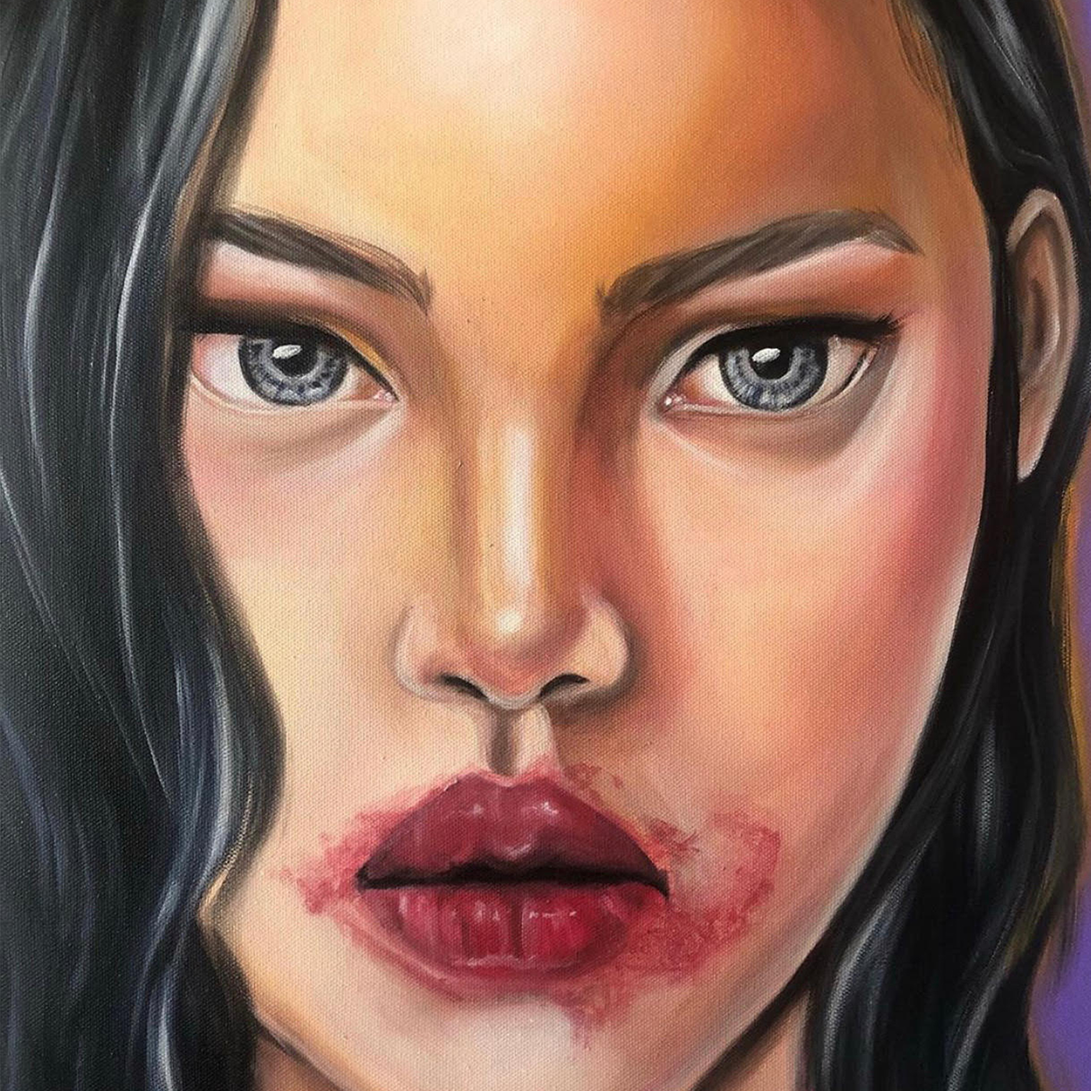
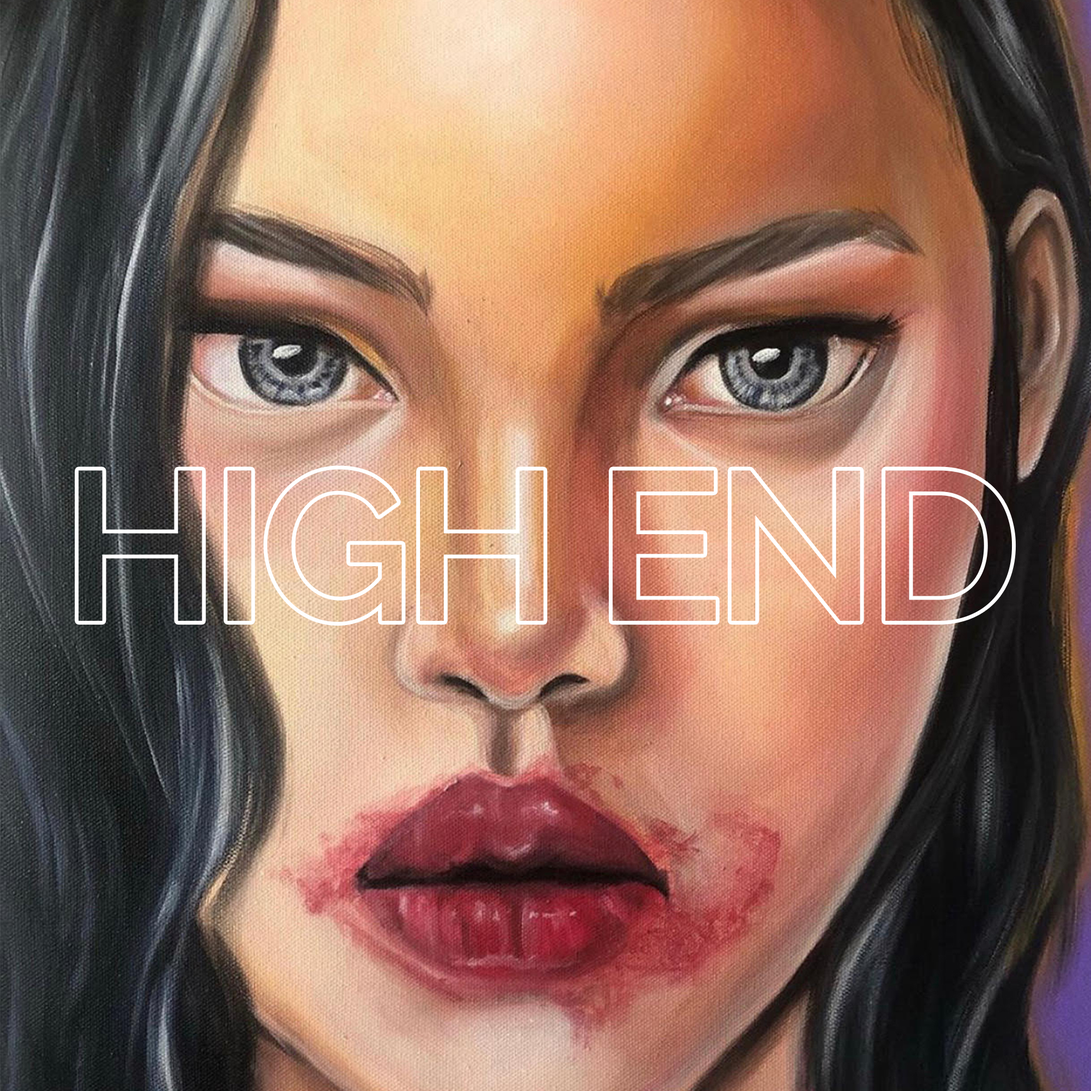
text + photo changes

Changed region(s): [[0.062, 0.403, 0.527, 0.589], [0.558, 0.403, 0.93, 0.589]]

diff --git a/index.html b/index.html
@@ -61,7 +61,11 @@
                     <div class="container">
     	                <div class="other-content">
                             <h2>About My Work</h2>
-                            <p>Lorem ipsum dolor sit amet, timeam inciderint referrentur in pro, dicta voluptatum cu quo, exerci regione mei ne. Duo essent commune quaerendum ad, iriure accumsan vim cu. Ea eirmod volumus ocurreret pro. </p>
+                            <p>Montreal artist Maïté Côté creates dreamlike portraits of women that contemplate the mystical
+                                    elements of femininity. Her works use the strong eye contact of her subjects to establish a
+                                    connection with the viewer into the emotional realm of the piece. Embracing the excitement of rapid
+                                    creation in her first season with Art Battle, Maïté painted amongst the cities best live artists to claim
+                                    her place in the National Championship.</p>
                             <a href="#">VIEW ALL WORK</a>
                         </div>
                         <div class="other-content">
@@ -70,19 +74,19 @@
                             </div>
                         </div>
 
-    	                <div class="slide show" style="background-image: url('data/portfoliowork/naked-fit.png');"></div>
+    	                <div class="slide show" style="background-image: url('data/portfoliowork/devil-fit.jpg');"></div>
     	                <div class="slide" style="background-image: url('data/portfoliowork/gun-fit.png');"></div>
-                        <div class="slide" style="background-image: url('data/portfoliowork/paintedw-fit.png');"></div>
-                        <div class="slide" style="background-image: url('data/portfoliowork/girlparrot-fit.png');"></div>
+                        <div class="slide" style="background-image: url('data/portfoliowork/woman-fit.jpg');"></div>
+                        <div class="slide" style="background-image: url('data/portfoliowork/skull-fit.jpg');"></div>
                     </div>
                 </div>
 
                 <div id ="second">
-                    <h2>Shop Collections</h2>
+                    <h2 style="font-family: 'Raleway', sans-serif;">Shop Collections</h2>
                     <div id="collections">
-                        <img src="data/1.jpg" style="float: left;">
-                        <img src="data/2.jpg">
-                        <img src="data/3.jpg" style="float: right;">
+                        <a href="pages/high-end.html"><img src="data/1.jpg" style="float: left;"></a>
+                        <a href="pages/cosima.html"><img src="data/gun.jpg"></a>
+                        <a href="pages/eco-friendly.html"><img src="data/2.jpg" style="float: right;"></a>
                     </div>
                 </div>
 
@@ -95,11 +99,11 @@
 
                 <div id = "fourth">
                     <div id ="second">
-                        <h2>Customer Favorites</h2>
+                        <h2 style="font-family: 'Raleway', sans-serif;">Customer Favorites</h2>
                     <div id="collections">
-                        <img src="data/cf1.jpg" style="float: left;">
-                        <img src="data/cf2.jpg">
-                        <img src="data/cf3.jpg" style="float: right;">
+                        <img src="data/woman2.jpg" style="float: left;">
+                        <img src="data/lips.jpg">
+                        <img src="data/black.jpg" style="float: right;">
                     </div>
                     </div>
 

diff --git a/pages/events.html b/pages/events.html
@@ -56,14 +56,13 @@
 			<main>
                 <div id="container">
 
+                    <img src="../data/artbattle2018.jpg" style="width: 100%">
+                    <h2><a href="https://artbattle.com/abnc-2018-competitors/" target="_blank">ART BATTLE CANDADIAN NATIONAL CHAMPIONSHIP 2018</a></h2>
+                    <p>In each event, 12 artists compete in three rounds of live painting. The winners are decided by audience vote, and Champions will advance to City, Regional, National, and World Championships. Embracing the excitement of rapid creation in her first season with Art Battle, Maïté painted amongst the cities best live artists to claim her place in the National Championship.</p>
                     <img src="../data/raw.jpg" style="width: 100%">
                     <h2><a href="https://rawartists.com/montreal/holidayrawk2019" target="_blank">RAW Artist Show</a></h2>
-                    <h3>December 10th & 11th, 2019 @ the Rialto Teather.</h3>
                     <p>RAW spotlights independent talent in visual art, film, fashion & accessories design, music, performance art, beauty, crafts, tech, and photography. RAW is a fun and alternative way for creatives to showcase both to their local community and the world at large. We are not your average art show. We are loud, colorful, creative, and all about our artists. We are RAW.</p>
-                    <img src="../data/artbattle2018.jpg" style="width: 100%">
-                    <h2><a href="https://artbattle.com/abnc-2018-competitors/" target="_blank">ART BATTLE 2018</a></h2>
-                    <h3>July 26th, 2018 @ The Great Hall.</h3>
-                    <p>In each event, 12 artists compete in three rounds of live painting. The winners are decided by audience vote, and Champions will advance to City, Regional, National, and World Championships. Embracing the excitement of rapid creation in her first season with Art Battle, Maïté painted amongst the cities best live artists to claim her place in the National Championship.</p>
+                    
     
                 </div>
                 <div id="footer" style="margin-top: 6vw;">

diff --git a/styles/home.css b/styles/home.css
@@ -106,10 +106,10 @@ ul img{
     top: 12vw;
     left: 8vw;
     width: 21vw;
-    height: 18vw;
+    height: 20vw;
     text-align: center;
     z-index: 3;
-    padding: 30px;
+    padding: 20px;
     color: black;
     background-color: #fffaf5;
     box-shadow: 0 0 20px rgba(0,0,0,0.4); 
@@ -117,8 +117,8 @@ ul img{
 
   .container .other-content:nth-of-type(2){
     position: relative;
-    margin-left: 10vw;
-    margin-right: 10vw;
+    /* margin-left: 10vw;
+    margin-right: 10vw; */
     text-align: center;
     z-index: 2;
     color: black;
@@ -163,12 +163,11 @@ ul img{
   }
 
   .other-content p{
-      padding-left: 2vw;
-      padding-right: 2vw;
+      padding-left: 0.5vw;
+      padding-right: 0.5vw;
       line-height: 1.5vw;
-      font-size: 0.8vw;
-      padding-bottom: 1.8vw;
-      padding-top: 1vw;
+      font-size: 0.7vw;
+      padding-bottom: 0.7vw;
   }
 
   .other-content a{

diff --git a/pages/videos.html b/pages/videos.html
@@ -57,12 +57,12 @@
                 
                 <div id="container">
                     <div class="vid">
-                        <iframe title="vimeo-player" src="https://player.vimeo.com/video/238891436" frameborder="0" allowfullscreen></iframe>
-                    </div>
-                    <div class="vid">
                         <video autoplay muted loop>
                             <source src="../data/maite.mp4" type="video/mp4">
                         </video>
+                    </div>
+                    <div class="vid">
+                        <iframe title="vimeo-player" src="https://player.vimeo.com/video/238891436" frameborder="0" allowfullscreen></iframe>
                     </div>
                 </div>
 

diff --git a/styles/secondary.css b/styles/secondary.css
@@ -57,10 +57,12 @@
     width: 100%;
     height: 100%;
     border: 0;
+    margin-top: 3vw;
+    margin-bottom: 10vw;
 }
 
 .vid video{
-    margin-top: -30vw;
+    margin-top: -49vw;
 }
 
 #contact input{
